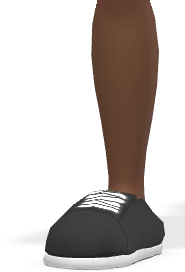
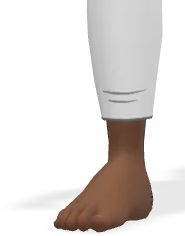
crid: no cloth — the ladder is three builds of the bare base body
The owner's rule is no cloth, so the outfit is gone from the recipe: no camo
cargos, no straps, no shoes. `outfit` is omitted entirely (`outfit=-1` answers
HTTP 400) and the clothing qualifiers that go with an outfit go with it, so
Snap returns his own base body — plain base layer, bare feet.

Same one render, three builds, height untouched: lean 483x1190 ink, average
485x1190, heavy 592x1190, head top on y=135 and soles on y=1325 in every
stage. ladder.json is re-measured from the new frames, the rig is re-cut from
body-0-r0.webp, and the comparison sheet is rebuilt at 336px and 150px.

The rig's knee landmark had to change with the clothes. It used to be "the
first white row below the denim" — with nothing on him the whole leg is light,
which put the knee 30px under the hip and made one shin piece most of the leg.
It now reads the ankle off the silhouette (the narrowest leg row near the
bottom) and puts the knee a little under half way down from the crotch, at
y=1099 instead of y=922. BODY_LADDER follows the measured widths.

diff --git a/public/desk-assets/crid-bot.js b/public/desk-assets/crid-bot.js
@@ -34,9 +34,9 @@ SUB_STEPS=[0,8,16],STAGE_STRETCH=.03,
 // scripts/build-body-ladder.py from the frames it just measured, and a test keeps this table honest
 // against public/desk-assets/crid/ladder.json.
 BODY_LADDER=[
-  {key:"0",w:477,h:1191,slow:1,heft:.86},
-  {key:"1",w:480,h:1191,slow:1.012,heft:.875},
-  {key:"2",w:592,h:1191,slow:1.45,heft:1.45}],
+  {key:"0",w:483,h:1190,slow:1,heft:.86},
+  {key:"1",w:485,h:1190,slow:1.008,heft:.871},
+  {key:"2",w:592,h:1190,slow:1.45,heft:1.45}],
 stageOf=i=>BODY_LADDER[Math.min(BODY_LADDER.length-1,Math.max(0,i|0))],
 // The eight micro-emotions from brain/micro-emotions.mjs. A painted face cannot be swapped, so a
 // feeling is a whole drawing that changes and is moved well: a different body, one of the gesture

diff --git a/scripts/build-crid-rig.py b/scripts/build-crid-rig.py
@@ -18,11 +18,13 @@ channel rather than guessed:
 
   * the neck is the narrowest single run of ink between the head and the shoulders;
   * each arm is the outermost run of each row below the shoulder, clipped to the arm's own
-    measured width — the left arm is fused to the hanging vest flap for a few rows, and taking
-    the outer band keeps the vest with the torso where it belongs;
+    measured width — the arm is fused to the torso for a few rows near the shoulder, and taking
+    the outer band keeps the body with the torso where it belongs;
   * the crotch is the first row where the body splits into two runs, and the hip pivot sits
     just above it on each leg's own axis;
-  * the knee is a little under half way from the crotch to the top of the shoe;
+  * the ankle is the narrowest row of each leg near the bottom, and the knee sits a little
+    under half way from the crotch to it (no shoe, no denim edge: the landmark is the
+    silhouette, because he renders in his bare base body);
   * the elbow is half way from the shoulder to the wrist.
 
 No two pieces meet on a line. Every cut is a few pixels of overlap: the piece above a cut
@@ -69,7 +71,7 @@ W, H = 1050, 1400
 INK_BOTTOM = 1325
 
 # --- tunables, all in render pixels ---------------------------------------------------------
-# The arm's painted width. The left arm touches the hanging vest flap for a few rows near the
+# The arm's painted width. The left arm touches the torso for a few rows near the
 # shoulder, so each row's arm is the outer ARM_W pixels of its outermost run rather than the
 # whole run. The hand is wider and its fingers stand apart, so below the wrist the band is wider
 # still — a narrower one would leave the separated fingers behind in the torso.
@@ -94,7 +96,7 @@ RIG_ANGLES = {"hip-l": 5, "hip-r": 5, "knee-l": 8, "knee-r": 8,
               "shoulder-l": 6, "shoulder-r": 6, "elbow-l": 3, "elbow-r": 3}
 # Where the head is cut off the neck, as a fraction of the way down the narrowest neck row.
 NECK_DROP = 17
-# The knee, as a fraction of the way from the crotch to the top of the shoe.
+# The knee, as a fraction of the way from the crotch down to the ankle.
 KNEE_FRAC = 0.48
 
 
@@ -178,7 +180,7 @@ def measure(img):
         return left, right
 
     # The hand ends where the outer band stops reaching out past the torso's own edge. The band
-    # has to stay narrow as well: below him the shoe also reaches past x=460, and a shoe is not a
+    # has to stay narrow as well: below him the foot also reaches past x=460, and a foot is not a
     # hand.
     hand_bottom = shoulder_y
     for y in range(shoulder_y, int(H * .75)):
@@ -215,21 +217,24 @@ def measure(img):
             break
     if crotch_y is None:
         raise SystemExit("could not find the crotch: the legs never separate")
-    # The top of the shoe: the first white row below the knee band, i.e. where the denim ends.
-    shoe_top = None
-    for y in range(crotch_y + 60, H):
-        r = [q for q in runs(a, y, x0=460, x1=670) if q[1] - q[0] >= 20]
-        if r and all(sum(img.getpixel(((q[0] + q[1]) // 2, y))[:3]) / 3 > 150 for q in r):
-            shoe_top = y
-            break
-    if shoe_top is None:
-        raise SystemExit("could not find the shoes: no white band under the denim")
+    # The ankle: the narrowest row of each leg in the bottom of the figure, where the calf tapers
+    # into the bare foot. With no cloth on him there is no shoe and no denim edge to read, so the
+    # landmark is the silhouette's own waist instead of a colour change.
+    ankle_y, ankle_w = None, 10 ** 9
+    for y in range(crotch_y + round((INK_BOTTOM - crotch_y) * .55), INK_BOTTOM):
+        r = [q for q in runs(a, y, x0=460, x1=670) if q[1] - q[0] >= 6]
+        if len(r) == 2:
+            w = max(q[1] - q[0] + 1 for q in r)
+            if w < ankle_w:
+                ankle_y, ankle_w = y, w
+    if ankle_y is None:
+        raise SystemExit("could not find the ankles: the legs never narrow into the feet")
 
     hip, knee = {}, {}
     for side, i in (("l", 0), ("r", 1)):
         q = legs[i]
         hip[side] = (round((q[0] + q[1]) / 2, 1), crotch_y - 6)
-        ky = crotch_y + round((shoe_top - crotch_y) * KNEE_FRAC)
+        ky = crotch_y + round((ankle_y - crotch_y) * KNEE_FRAC)
         r = [t for t in runs(a, ky, x0=460, x1=670) if t[1] - t[0] >= 20]
         k = r[i] if len(r) > i else q
         knee[side] = (round((k[0] + k[1]) / 2, 1), ky)
@@ -239,7 +244,7 @@ def measure(img):
         "neck": {"y": head_cut, "narrowest": neck_y},
         "shoulder": shoulder, "elbow": elbow, "wristY": wrist_y, "handBottom": hand_bottom,
         "shoulderY": shoulder_y, "hip": hip, "knee": knee,
-        "crotchY": crotch_y, "shoeTop": shoe_top, "armW": ARM_W,
+        "crotchY": crotch_y, "ankleY": ankle_y, "ankleW": ankle_w, "armW": ARM_W,
     }
 
 

diff --git a/scripts/build-body-ladder.py b/scripts/build-body-ladder.py
@@ -14,8 +14,8 @@ genuinely different builds, so the ladder is now three real builds, not seven wa
     body=0  lean      body=1  average      body=2  heavy (belly, thicker limbs, same head)
 
 Everything about the pose is identical across the three because it is one render: the head top, the
-feet, the stance and the outfit are the same pixels. Only the build changes. Anything the desk wants
-between them is the renderer's own sub-step stretch, never a new drawing.
+feet, the stance and the base body are the same pixels. Only the build changes. Anything the desk
+wants between them is the renderer's own sub-step stretch, never a new drawing.
 
 WHERE THE FRAMES COME FROM
 --------------------------
@@ -23,8 +23,10 @@ WHERE THE FRAMES COME FROM
 1 and 2, and writes the masters to views/body-<n>-r0.png (1050x1400 PNG, the API's own size). The face
 is the one the desk already ships — the parameters in fetch-crid-views.mjs, with the two gold hoops —
 because crid-ladder-spec.md's recipe renders a different man: no earrings, a solid handlebar moustache
-instead of the split one, a rounder hair line and heavy blush. The outfit is the spec's 990491 (white
-tee, dark shorts): one outfit, and no backpack straps reading as a second body at small sizes.
+instead of the split one, a rounder hair line and heavy blush. There is no `outfit` parameter at all:
+the owner's rule is *no cloth*, so he renders as Snap's base body — no camo cargos, no backpack
+straps and no shoes, only the renderer's own plain base layer over bare feet. `outfit=-1` is
+rejected with HTTP 400, so the parameter is simply omitted.
 
 FRAMING (what crid-bot.js assumes: INK_BOTTOM, FIG_X, FIG_Y)
 -----------------------------------------------------------
@@ -65,11 +67,13 @@ BODIES = [0, 1, 2]    # lean, average, heavy
 SUB_STEPS = [0, 8, 16]
 BODY_NAMES = {0: "lean", 1: "average", 2: "heavy"}
 
-# The Snap recipe. The face is the one the desk ships (fetch-crid-views.mjs); the outfit is the
-# spec's 990491. Hex tones are converted to decimal — the endpoint answers 400 to 0x… values.
+# The Snap recipe. The face is the one the desk ships (fetch-crid-views.mjs). No `outfit` — the
+# owner's rule is no cloth, and `outfit=-1` answers 400; the clothing qualifiers that go with an
+# outfit (clothing_type / is_tucked / ua / breast) are gone with it. Tones are decimal integers:
+# the endpoint also answers 400 to 0x… values.
 API = "https://preview.bitmoji.com/avatar-builder-v3/preview/body"
 RECIPE = (
-    "scale=3 gender=1 style=5 rotation=0 outfit=990491 clothing_type=1 is_tucked=0 ua=2 breast=0 "
+    "scale=3 gender=1 style=5 rotation=0 "
     "beard=8696 brow=1538 cheek_details=-1 ear=1424 eye=1626 eyelash=-1 eye_details=-1 "
     "face_lines=-1 glasses=-1 hair=1657 hat=-1 jaw=1396 mouth=2338 nose=1449 "
     "earringL_lobe1=5 earringL_lobe1_tone1=16763909 earringL_lobe1_tone2=16763909 "
